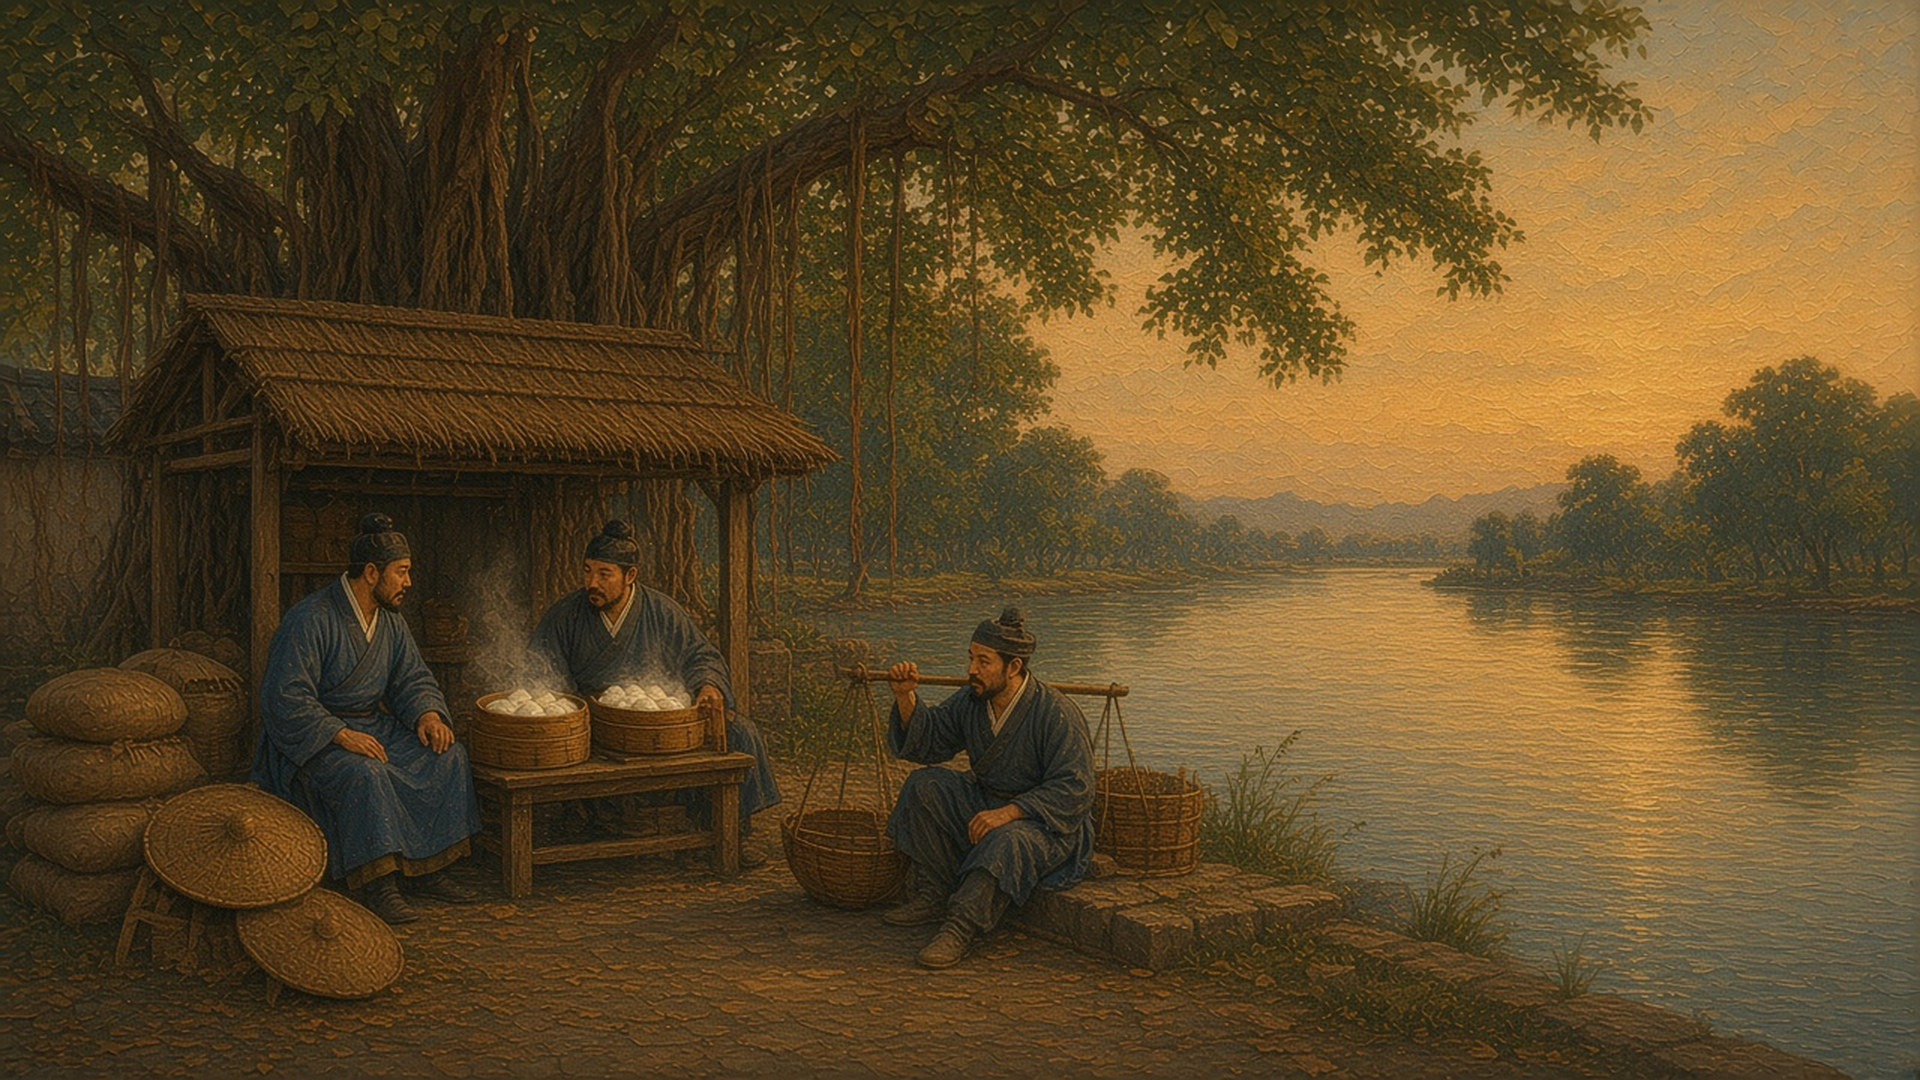
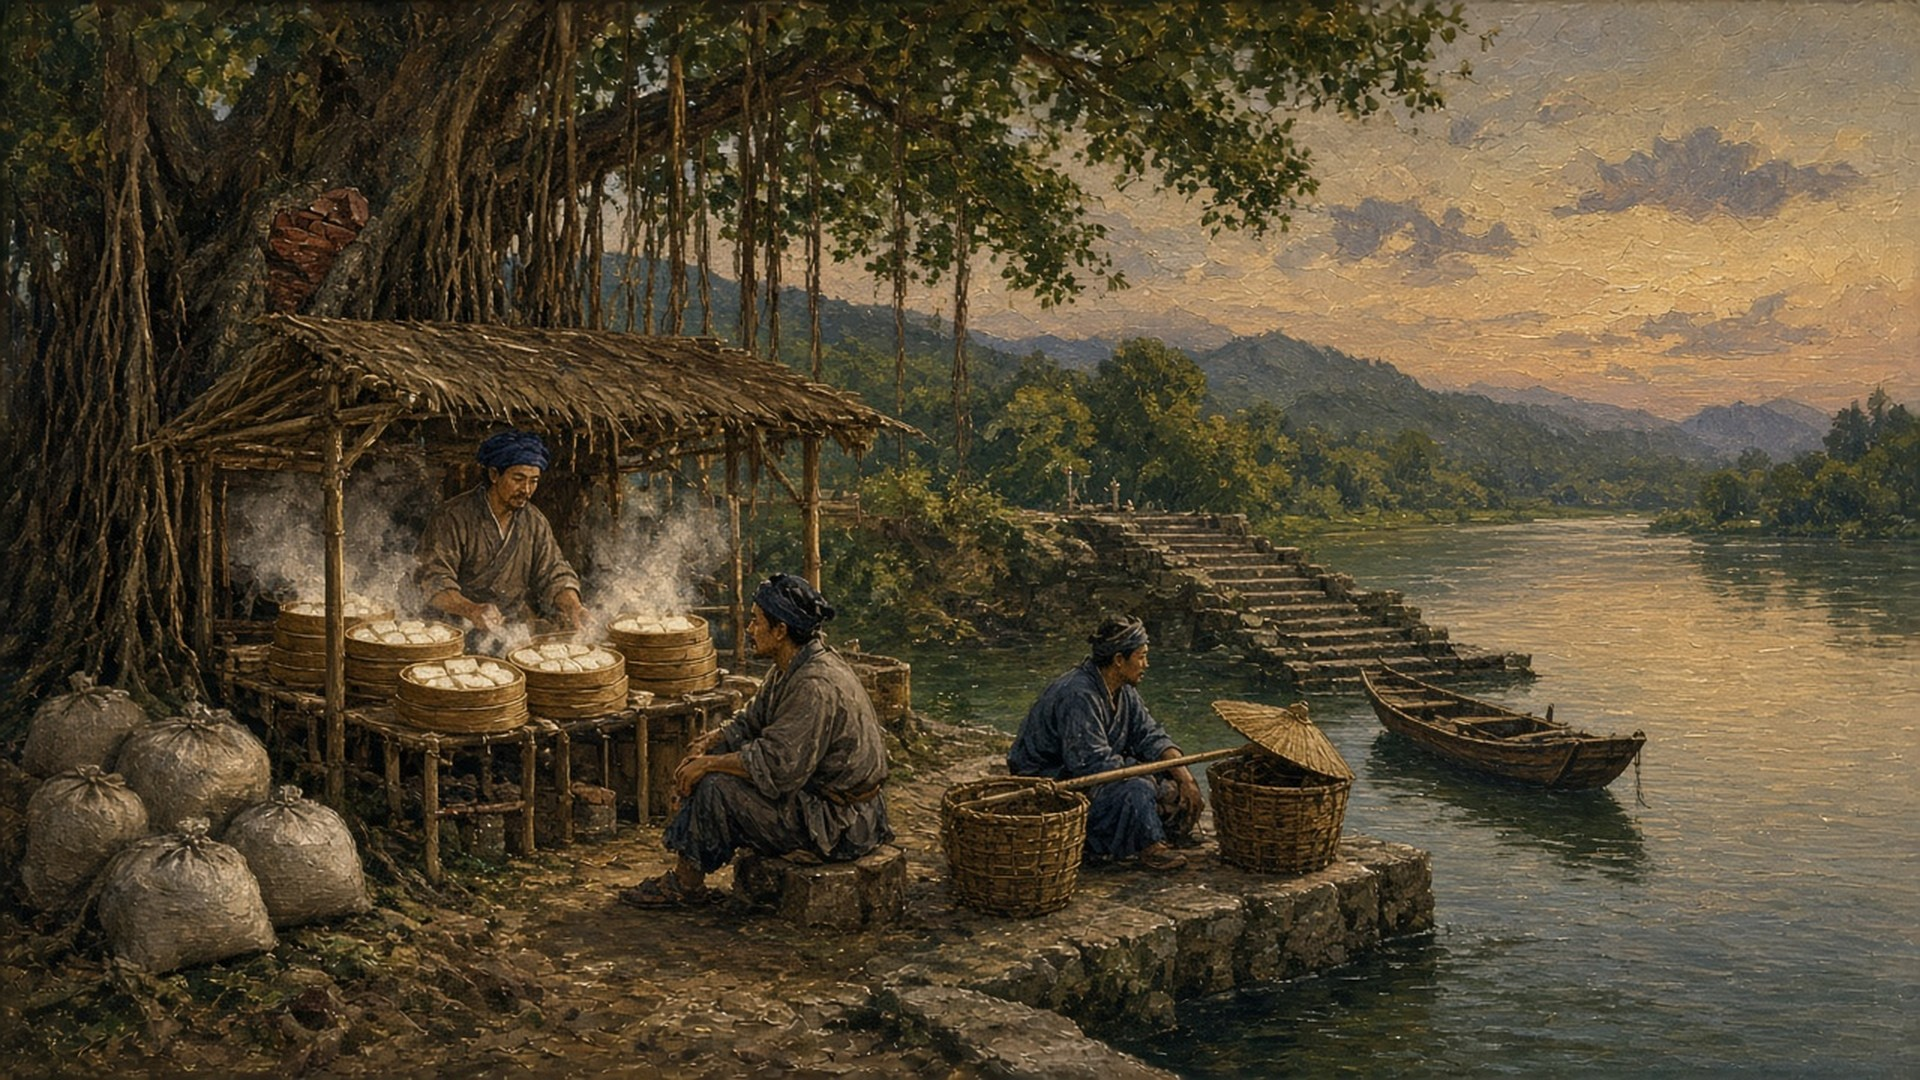
七区底图重画并对齐热区，三处结局换上对题过场，两张了结页改夜景
兴化铁作、城隍庙，博多承天寺，温州漆器铺、永嘉市、江边塌房、河边小卖七区底图重画（暗调厚油画，1920×1080），热区 id 不变，只按新图改 x,y（x≤0.64，两两间距≥0.149）。
忠肃末镜改用台江江边小庙（cs_taijiang_temple），泉州蒲氏第二镜改为市舶册换封面（cs_shibo_register_mongol），蒲家册上第二镜改为占城蕃坊信使（cs_champa_pu_envoy），三张入 ASSET_POOL。
bg_ch4_register、bg_ch4_ledger 重画为夜案碎火漆与樟木箱、人散后的账房算盘与风灯，页内两钮按新图微调。

diff --git a/tools/art/import_cutscene_bgs.py b/tools/art/import_cutscene_bgs.py
@@ -143,6 +143,7 @@ ASSET_POOL = {
     "cs_card_south.jpg",
     "cs_card_west.jpg",
     "cs_champa_fanfang_night.jpg",
+    "cs_champa_pu_envoy.jpg",
     "cs_chengli_market.jpg",
     "cs_guangzhou_guangta.jpg",
     "cs_guild_hall.jpg",
@@ -171,10 +172,12 @@ ASSET_POOL = {
     "cs_room_quanzhou.jpg",
     "cs_room_xinghua.jpg",
     "cs_ryukyu_trade.jpg",
+    "cs_shibo_register_mongol.jpg",
     "cs_table_draft.jpg",
     "cs_table_letter.jpg",
     "cs_taijiang_dawn.jpg",
     "cs_taijiang_no_temple.jpg",
+    "cs_taijiang_temple.jpg",
     "cs_tavern_champa.jpg",
     "cs_tavern_fuzhou.jpg",
     "cs_tavern_guangzhou.jpg",
